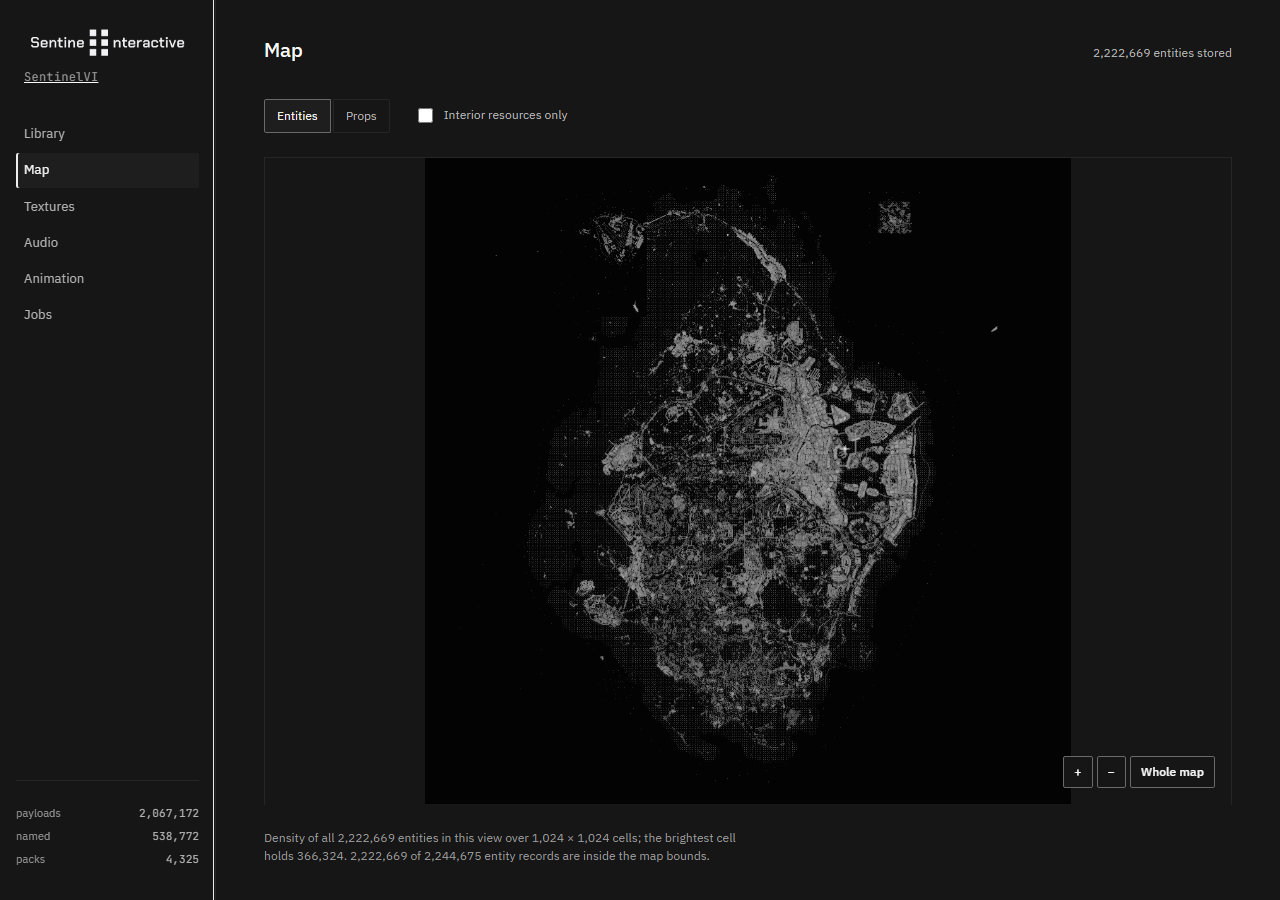
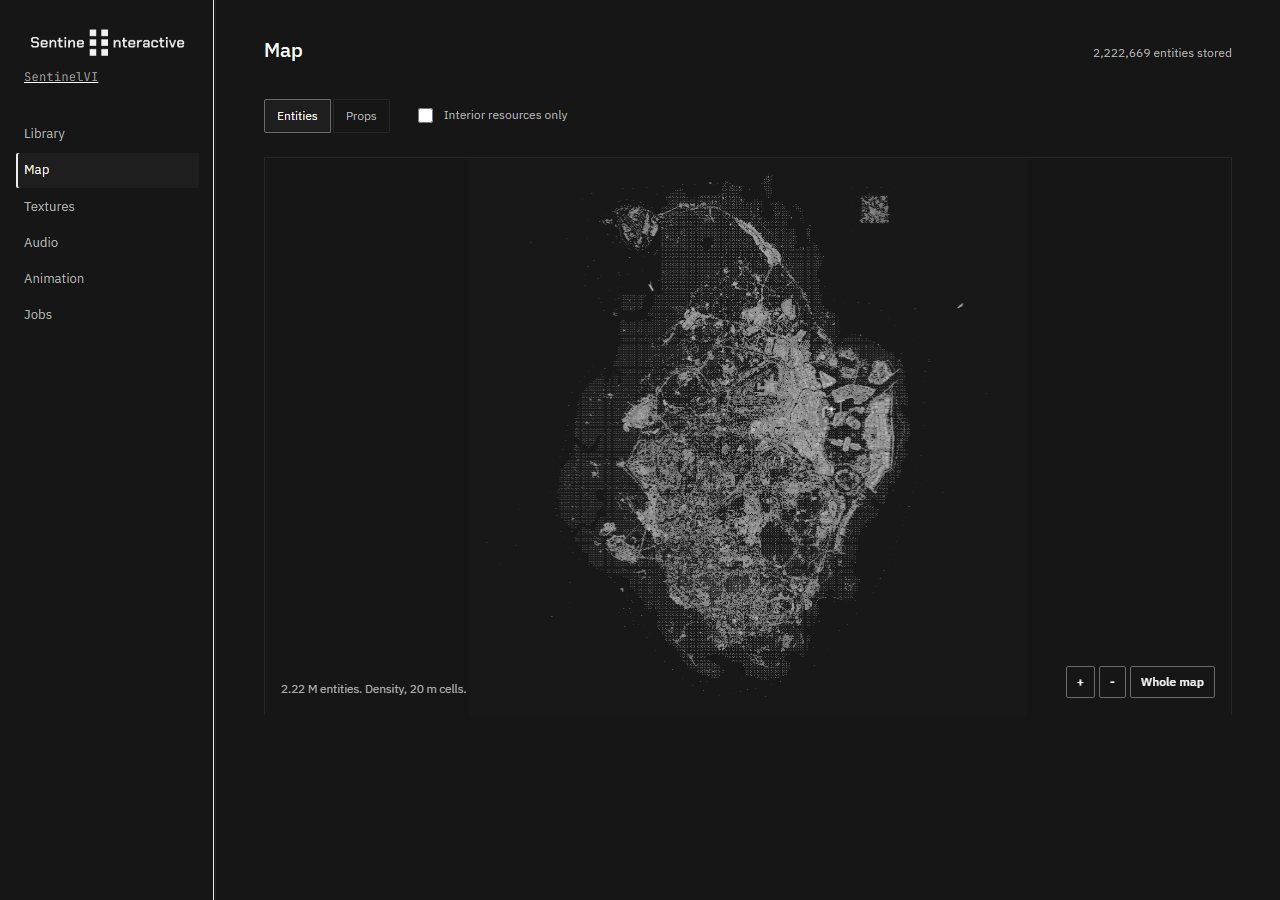
Map: raise density contrast, cut the caption to one line
Density cells start at 96 instead of 52 so coast, roads and blocks separate,
with the terrain hillshade kept in the 22..62 band beneath. The caption under
the canvas is one line, with the full detail in its tooltip. The Map hides the
sidebar totals so the header count is the single source, and the mobile nav fits
on one line with 7 px padding at 11.5 px.

diff --git a/web/pages/map.js b/web/pages/map.js
@@ -5,6 +5,12 @@ const RASTER = 1024;
 const POINT_SPAN = 5000;
 const POINT_LIMIT = 20000;
 
+function compact(n) {
+  if (n >= 1e6) return `${(n / 1e6).toFixed(2)} M`;
+  if (n >= 1e3) return `${Math.round(n / 1e3)} k`;
+  return String(n);
+}
+
 export async function mount(root) {
   const meta = await get("/api/map/meta").catch(() => ({ exists: false }));
   const headLine = el("p", { class: "status", id: "map-count", text: "" });
@@ -36,15 +42,16 @@ export async function mount(root) {
     alt: "",
     src: "/api/map/density?bbox=-13000,-9000,7000,11000&layer=0&interior=0&w=1024&h=1024",
   });
-  const frame = el("div", { class: "map-frame" }, [worldRaster, canvas]);
-  const caption = el("p", { class: "hint" });
+  const frame = el("div", { class: "map-frame" }, [canvas, worldRaster]);
+  const caption = el("p", { class: "hint map-caption" });
 
   frame.append(
     el("div", { class: "map-tools" }, [
       el("button", { class: "btn", type: "button", text: "+", "aria-label": "Zoom in", onclick: () => zoom(1 / 1.4) }),
-      el("button", { class: "btn", type: "button", text: "−", "aria-label": "Zoom out", onclick: () => zoom(1.4) }),
+      el("button", { class: "btn", type: "button", text: "-", "aria-label": "Zoom out", onclick: () => zoom(1.4) }),
       el("button", { class: "btn", type: "button", text: "Whole map", onclick: reset }),
     ]),
+    caption,
   );
 
   root.append(
@@ -55,12 +62,9 @@ export async function mount(root) {
         el("label", { class: "check" }, [interiorBox, "Interior resources only"]),
       ]),
       frame,
-      caption,
     ]),
   );
   document.title = "Map - SentinelVI";
-  caption.textContent =
-    "Placement density over the whole map, one cell per 1024th of the view. Terrain comes from the heightmap in common.rpf.";
 
   let bbox = [...WORLD];
   let layer = 0;
@@ -72,12 +76,6 @@ export async function mount(root) {
   let rasterStats = { total: 0, bins: 0, max: 0 };
   let terrain = null;
   let loading = false;
-
-  function statusLine() {
-    const stored = layer === 0 ? m.entities_stored : m.props_stored;
-    const noun = layer === 0 ? "entities" : "props";
-    headLine.textContent = `${fmt.int(stored)} ${noun} stored`;
-  }
 
   const ctx = canvas.getContext("2d", { alpha: false });
   let dpr = 1;
@@ -114,16 +112,17 @@ export async function mount(root) {
   function draw() {
     if (!width || !height) return;
     ctx.globalCompositeOperation = "source-over";
+    ctx.globalAlpha = 1;
     ctx.fillStyle = "#161616";
     ctx.fillRect(0, 0, canvas.width, canvas.height);
 
     if (terrain) {
       const [x, y, w, h] = worldRect(terrain.bounds);
-      ctx.globalAlpha = 1;
       ctx.drawImage(terrain.image, x, y, w, h);
     }
 
     if (mode === "density" && raster) {
+      worldRaster.hidden = true;
       const [x, y, w, h] = worldRect(bbox);
       // Black cells add nothing, so the density lightens the terrain instead of
       // covering it.
@@ -133,7 +132,7 @@ export async function mount(root) {
     }
 
     if (mode === "points") {
-      ctx.fillStyle = "rgba(250, 250, 250, 0.55)";
+      ctx.fillStyle = "rgba(250, 250, 250, 0.7)";
       for (const p of points) {
         const [px, py] = project(p[0], p[1]);
         const ix = px | 0;
@@ -142,38 +141,33 @@ export async function mount(root) {
         ctx.fillRect(ix, iy, 1, 1);
       }
     }
-
-    if (loading) {
-      ctx.fillStyle = "#9A9A9A";
-      ctx.font = `${12 * dpr}px "JetBrains Mono", monospace`;
-      ctx.fillText("reading placements", 16 * dpr, 24 * dpr);
-    }
   }
 
+  /// One line under the map. Everything else is in the tooltip.
   function updateCaption() {
-    const layerName = layer === 0 ? "entities" : "props";
     const stored = layer === 0 ? m.entities_stored : m.props_stored;
     const read = layer === 0 ? m.entities : m.props;
-    headLine.textContent = loading
-      ? "reading placements"
-      : `${fmt.int(stored)} ${layerName} stored`;
-    if (mode === "points") {
-      caption.textContent = `Zoomed in: up to ${fmt.int(
-        POINT_LIMIT,
-      )} placements are drawn, spread evenly across the view. ${fmt.int(
-        stored,
-      )} ${layerName} are stored in total.`;
+    const noun = layer === 0 ? "entities" : "props";
+    headLine.textContent = loading ? "reading placements" : `${fmt.int(stored)} ${noun} stored`;
+    if (loading) {
+      caption.textContent = "";
       return;
     }
-    caption.textContent =
-      `Density of all ${fmt.int(rasterStats.total)} ${layerName} in this view over ${fmt.int(
-        RASTER,
-      )} × ${fmt.int(RASTER)} cells; the brightest cell holds ${fmt.int(rasterStats.max)}. ` +
-      (layer === 1
-        ? `${fmt.int(read)} prop records were read and ${fmt.int(
-            stored,
-          )} are stored, one in four.`
-        : `${fmt.int(stored)} of ${fmt.int(read)} entity records are inside the map bounds.`);
+    const metres = Math.round((bbox[2] - bbox[0]) / RASTER);
+    if (mode === "points") {
+      caption.textContent = `${compact(stored)} ${noun}. ${fmt.int(points.length)} points in view.`;
+      caption.title = `Sampled on a rowid stride across the whole view, ${fmt.int(
+        POINT_LIMIT,
+      )} points at most.`;
+      return;
+    }
+    caption.textContent = `${compact(stored)} ${noun}. Density, ${metres} m cells.`;
+    caption.title =
+      `${fmt.int(rasterStats.total)} ${noun} in this view over ${fmt.int(RASTER)} × ${fmt.int(RASTER)} cells, ` +
+      `${fmt.int(rasterStats.bins)} cells occupied, brightest cell ${fmt.int(rasterStats.max)} records. ` +
+      `${fmt.int(stored)} of ${fmt.int(read)} records inside the map bounds are stored. ` +
+      (layer === 1 ? "One prop instance in four is kept. " : "") +
+      "Terrain is the heightmap from common.rpf.";
   }
 
   function span() {
@@ -181,7 +175,7 @@ export async function mount(root) {
   }
 
   let timer = null;
-  async function refresh() {
+  function refresh() {
     if (timer) clearTimeout(timer);
     timer = setTimeout(async () => {
       loading = true;
@@ -223,12 +217,8 @@ export async function mount(root) {
         headLine.textContent = e.message;
       }
       loading = false;
-      try {
-        draw();
-        updateCaption();
-      } catch (err) {
-        headLine.textContent = err.message;
-      }
+      draw();
+      updateCaption();
     }, 120);
   }
 
@@ -357,7 +347,10 @@ export async function mount(root) {
   const observer = new ResizeObserver(() => resize());
   observer.observe(frame);
   resize();
-  statusLine();
+  headLine.textContent = `${fmt.int(m.entities_stored)} entities stored`;
+  caption.textContent = `${compact(m.entities_stored)} entities. Density, ${Math.round(
+    (WORLD[2] - WORLD[0]) / RASTER,
+  )} m cells.`;
   loadTerrain().then(() => {
     draw();
     refresh();
@@ -368,8 +361,6 @@ export async function mount(root) {
     onEscape: reset,
   };
 }
-
-
 
 
 

diff --git a/web/app.css b/web/app.css
@@ -564,7 +564,7 @@ pre.hex {
   position: relative;
   border: 1px solid var(--border);
   background: var(--bg);
-  height: min(72vh, 760px);
+  height: min(62vh, 700px);
   min-height: 360px;
 }
 .map-frame canvas {
@@ -581,6 +581,7 @@ pre.hex {
   position: absolute;
   right: var(--s2);
   bottom: var(--s2);
+  z-index: 3;
   display: flex;
   gap: 4px;
 }
@@ -703,14 +704,14 @@ audio {
   .brand img {
     max-width: 132px;
   }
-  .nav {
+.nav {
     flex-direction: row;
     flex-wrap: wrap;
-    gap: 2px;
+    gap: 1px;
   }
   .nav a {
-    padding: 8px 10px;
-    font-size: 12px;
+    padding: 7px 7px;
+    font-size: 11.5px;
   }
   .counts {
     display: none;
@@ -754,6 +755,10 @@ audio {
   .map-frame {
     height: 60vh;
   }
+  .map-tools {
+    top: var(--s2);
+    bottom: auto;
+  }
 }
 
 @media (prefers-reduced-motion: reduce) {
@@ -767,14 +772,37 @@ audio {
 
 
 
+
+
+body[data-route="/map"] .counts {
+  display: none;
+}
+
+
+.map-frame canvas {
+  position: relative;
+  z-index: 0;
+}
 .map-frame .map-raster {
   position: absolute;
   inset: 0;
+  z-index: 1;
   width: 100%;
   height: 100%;
   object-fit: contain;
-  image-rendering: auto;
   pointer-events: none;
-  opacity: 0.85;
 }
+
+
+
+.map-caption {
+  position: absolute;
+  left: var(--s2);
+  bottom: var(--s2);
+  z-index: 3;
+  margin: 0;
+  font-size: 11.5px;
+  color: var(--muted);
+}
+
 

diff --git a/web/app.js b/web/app.js
@@ -116,6 +116,7 @@ async function render() {
   const path = currentRoute();
   const entry = routes.find((r) => r.re.test(path));
   const main = document.getElementById("content");
+  document.body.dataset.route = path;
   for (const a of document.querySelectorAll(".nav a")) {
     const target = a.dataset.route;
     const active = entry && path.startsWith(target === "/library" ? "/library" : target);
@@ -202,5 +203,6 @@ window.addEventListener("popstate", render);
 loadCounts();
 render();
 setInterval(loadCounts, 30000);
+
 
 

diff --git a/crates/server/src/lib.rs b/crates/server/src/lib.rs
@@ -497,9 +497,9 @@ fn raster_rgba(d: &sentinel_placement::Density) -> Vec<u8> {
             0u8
         } else {
             // Square root of the log ratio lifts single-record cells off the
-            // floor without flattening the dense cores.
+            // floor, and the 96 floor keeps roads and coast legible on black.
             let t = (1.0 + cell as f64).ln() / denom;
-            ((255.0 * t.sqrt()).round() as u8).clamp(52, 255)
+            ((255.0 * t.sqrt()).round() as u8).clamp(96, 255)
         };
         let o = i * 4;
         rgba[o] = v;
@@ -613,7 +613,7 @@ fn decode_terrain(archive: &std::path::Path, cache_dir: &std::path::Path) -> Res
         for x in 0..w {
             let src_i = (y * step) * map.width + x * step;
             let v = shade.get(src_i).copied().unwrap_or(23) as u32;
-            let grey = 20 + (v * 44 / 255) as u8;
+            let grey = 22 + (v * 40 / 255) as u8;
             let o = (y * w + x) * 4;
             rgba[o] = grey;
             rgba[o + 1] = grey;
